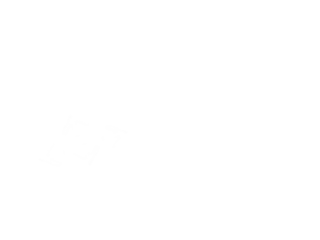
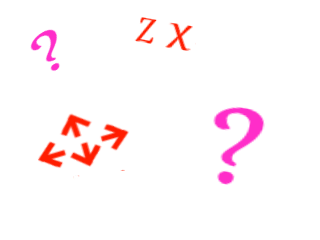
help fix

diff --git a/sprite.py b/sprite.py
@@ -24,6 +24,7 @@ class Sprite(pygame.sprite.Sprite):
         self._rot_lasttime = 0.0
         self._rot_ref = 0.0
         self._rot_reftime = 0.0
+        self._rot_callbacks = []
         self.col = (1.0, 1.0, 1.0, 1.0)
         self._col_lasttime = 0
         self._col_ref = (1.0, 1.0, 1.0, 1.0)
@@ -107,6 +108,14 @@ class Sprite(pygame.sprite.Sprite):
             return self._rot_ref - (self._rot_ref - self.rot) * factorT
 
     def updateRot(self, currentTime):
+        if (self._rot_reftime <= currentTime):                    
+            if len(self._rot_callbacks):
+                callbacks = self._rot_callbacks 
+                self._rot_callbacks = []
+                 
+                for callback in callbacks:
+                    callback(self)
+
         self.rot = self.calcRot(currentTime)
         self._rot_lasttime = currentTime
 
@@ -137,10 +146,13 @@ class Sprite(pygame.sprite.Sprite):
         self.pos = pos
         self._pos_reftime = 0
 
-    def rotateTo(self, rot, currentTime, duration):
+    def rotateTo(self, rot, currentTime, duration, callback=None):
         self.updateRot(currentTime)
         self._rot_ref = rot
         self._rot_reftime = currentTime + duration
+        
+        if callback:
+            self._rot_callbacks.append(callback)
         
     def setRot(self, rot):
         self._rot_ref = rot

diff --git a/scene_help.py b/scene_help.py
@@ -24,18 +24,39 @@ class Scene_Help(Scene):
         self.background.scaleTo((320,240),0,0)
         self.background.fadeTo((0.0,0.0,0.0, 0.8),0,0)
         self.background._layer = 0
+        
+        self.anders = Sprite()
+        self.anders.setImage(loadImage("anders.png"))
+        self.anders.center = (30,40)
+        self.anders.setPos((162,96))
+        self.anders._layer = 3
+
+        self.angle = 360.0
+        def rotate(sprite):
+            self.anders.rotateTo(self.angle, self.currentTime, 1.0, rotate)
+            self.angle += 360.0
+            
+        rotate(None)
+
+        def scale_to(sprite):
+            self.help.scaleTo((1.1,1.1),self.currentTime, 2.0, scale_from)
+            
+        def scale_from(sprite):
+            self.help.scaleTo((0.9,0.9),self.currentTime, 2.0, scale_to)
 
         self.help = Sprite()
         self.help.setImage(loadImage("help.png"))
+        scale_from(None)
         self.help._layer = 1
 
         self.sprites.add(self.background)
         self.sprites.add(self.help)
+        self.sprites.add(self.anders)
 
         self.updateBlocker = True
         
     def tick(self):
-        pass        
+        self.sprites.update(self.currentTime)        
         
     def show(self):
         print self, "is showing"
